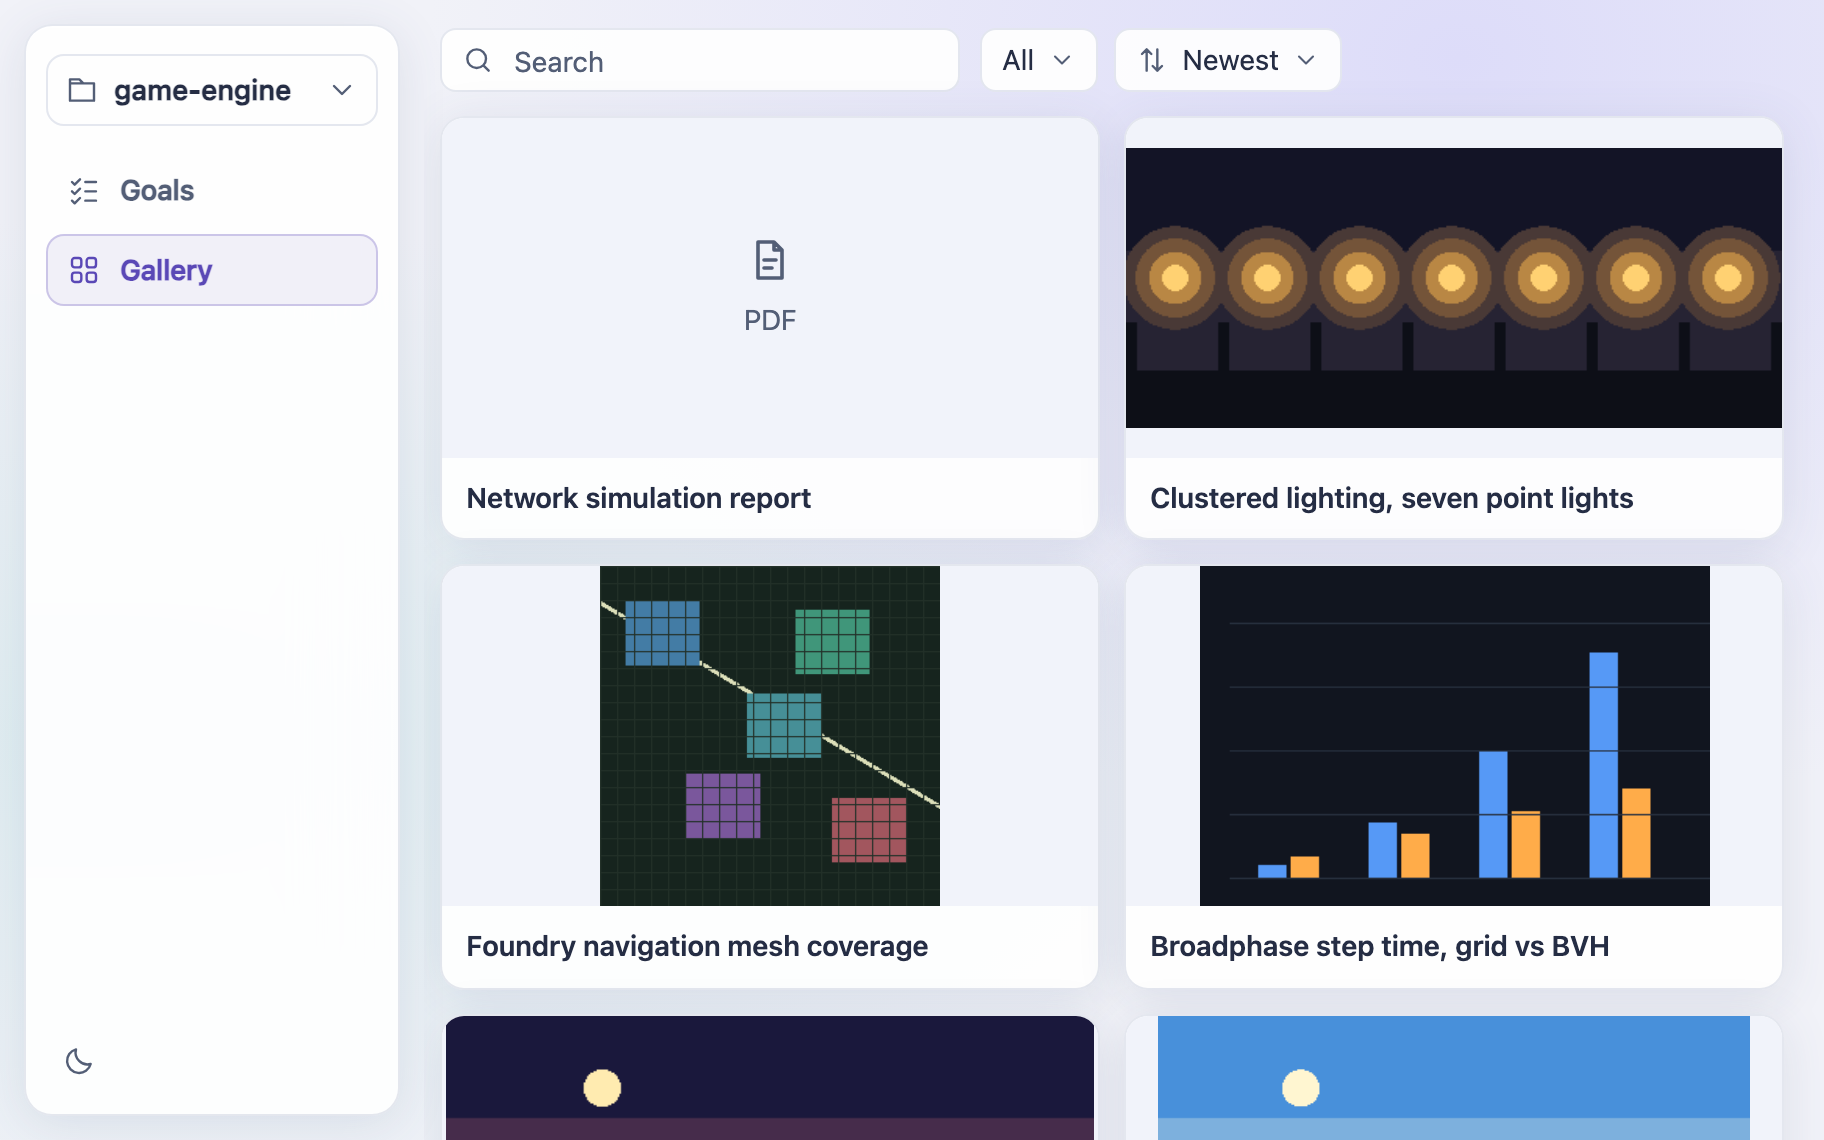
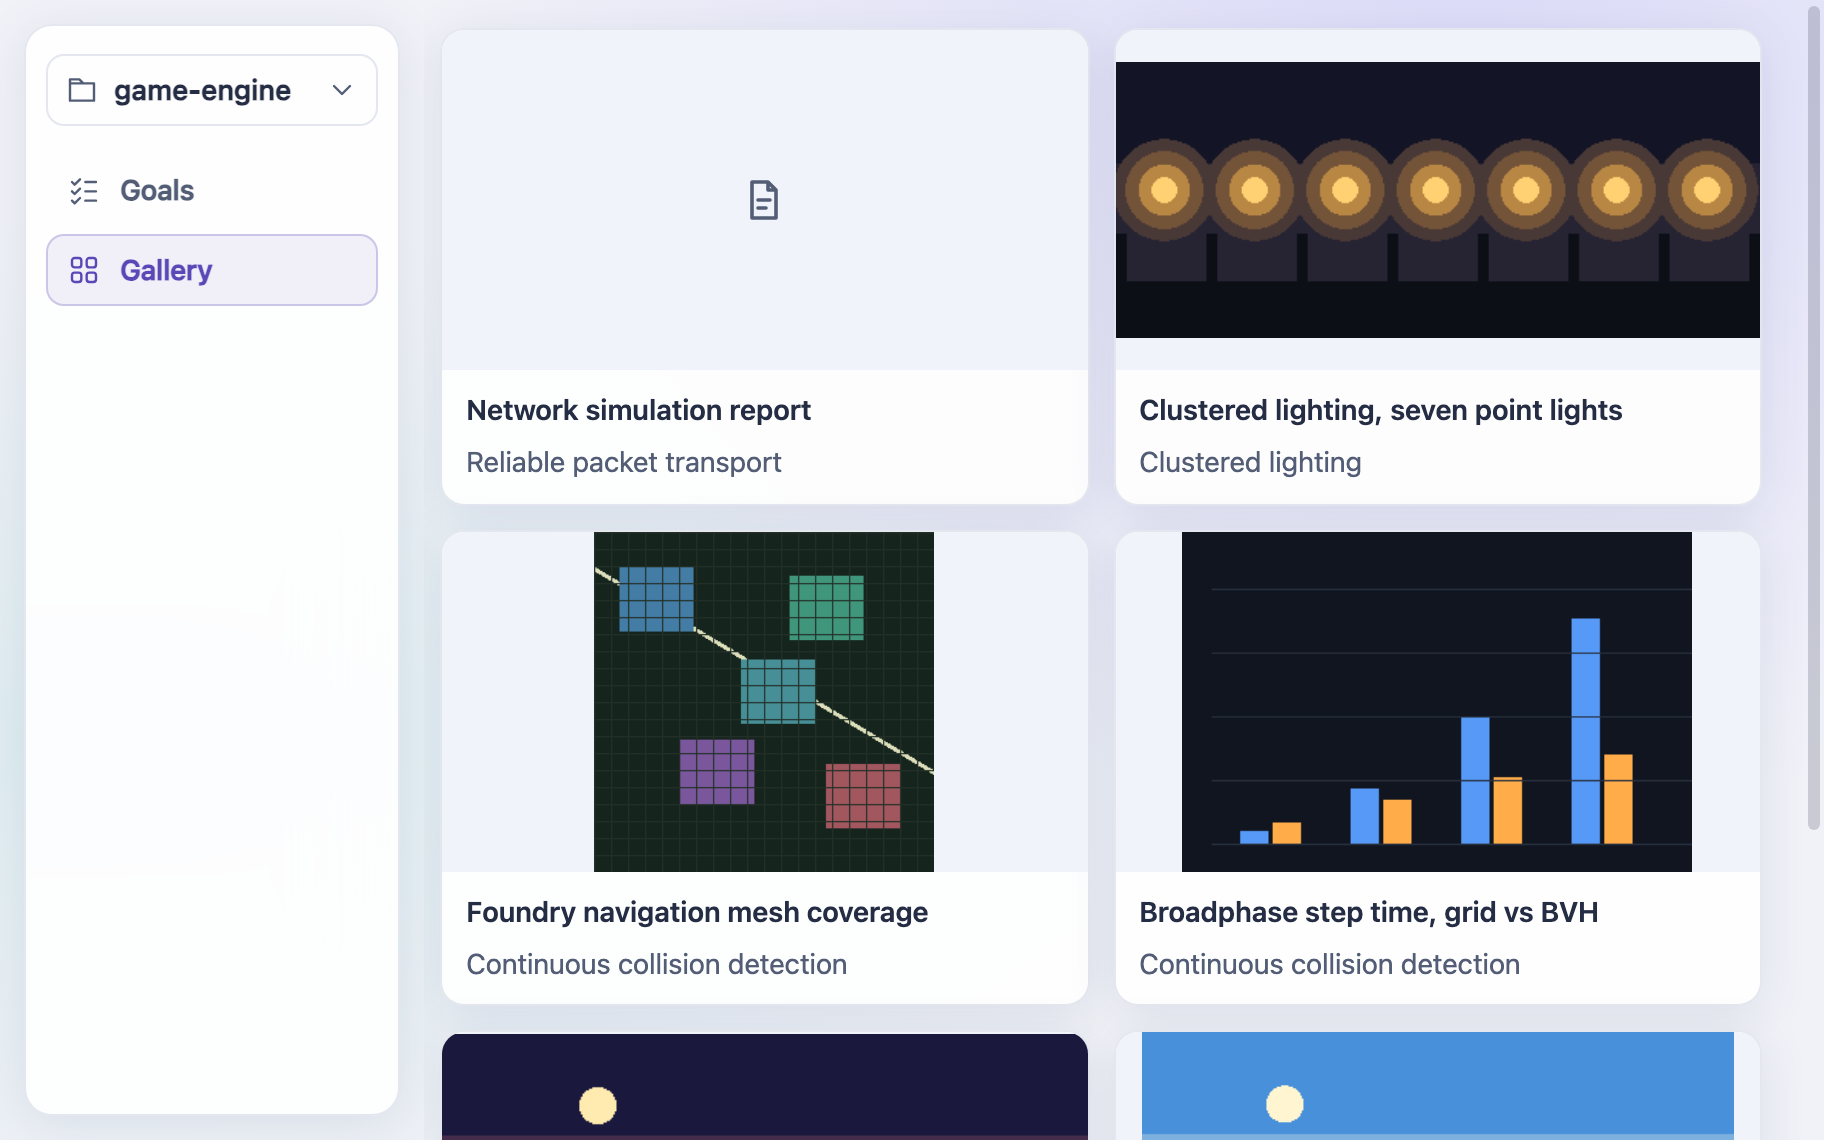
Refresh the sample project and README screenshots
The sample still wrote the old goal format and no longer ran. Its fake remote
also stayed on a feature branch, which made that branch look like main.

diff --git a/README.md b/README.md
@@ -4,7 +4,6 @@ A ledger in your git repo for goals worked on by many agents. Goals have evidenc
 
 <img src="assets/ui-goals.png" alt="Goals and branches" width="912" />
 <img src="assets/ui-gallery.png" alt="Evidence gallery" width="912" />
-<img src="assets/ui-dark.png" alt="Dark mode" width="912" />
 
 ## Install
 
@@ -68,6 +67,6 @@ whosaidso code includers src/types.h
 
 ## Viewer
 
-`whosaidso ui` serves a read-only viewer on your machine, with Goals, Flows and Gallery. `--open` opens your browser.
+`whosaidso ui` serves a read-only viewer on your machine, with Goals and Gallery. `--open` opens your browser.
 
 See [USAGE.md](USAGE.md) for commands and record formats. Contributing: [CONTRIBUTING.md](CONTRIBUTING.md). Apache-2.0.
